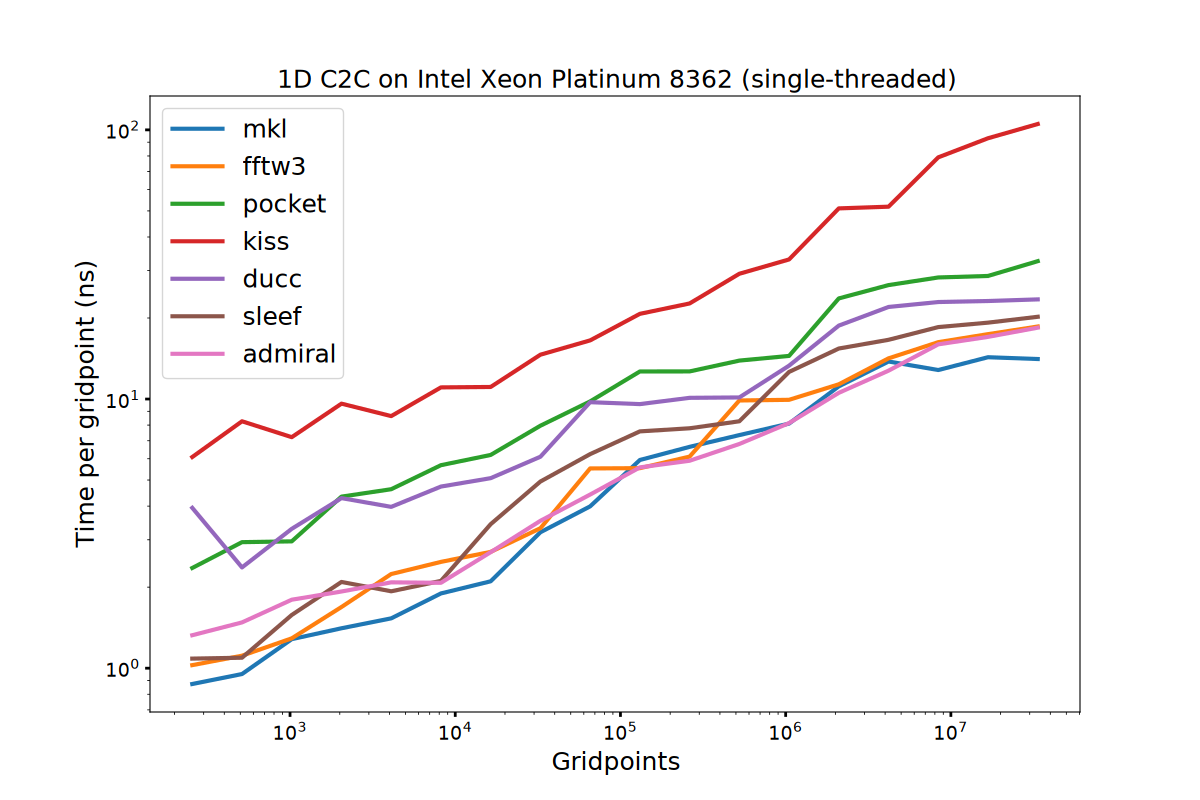
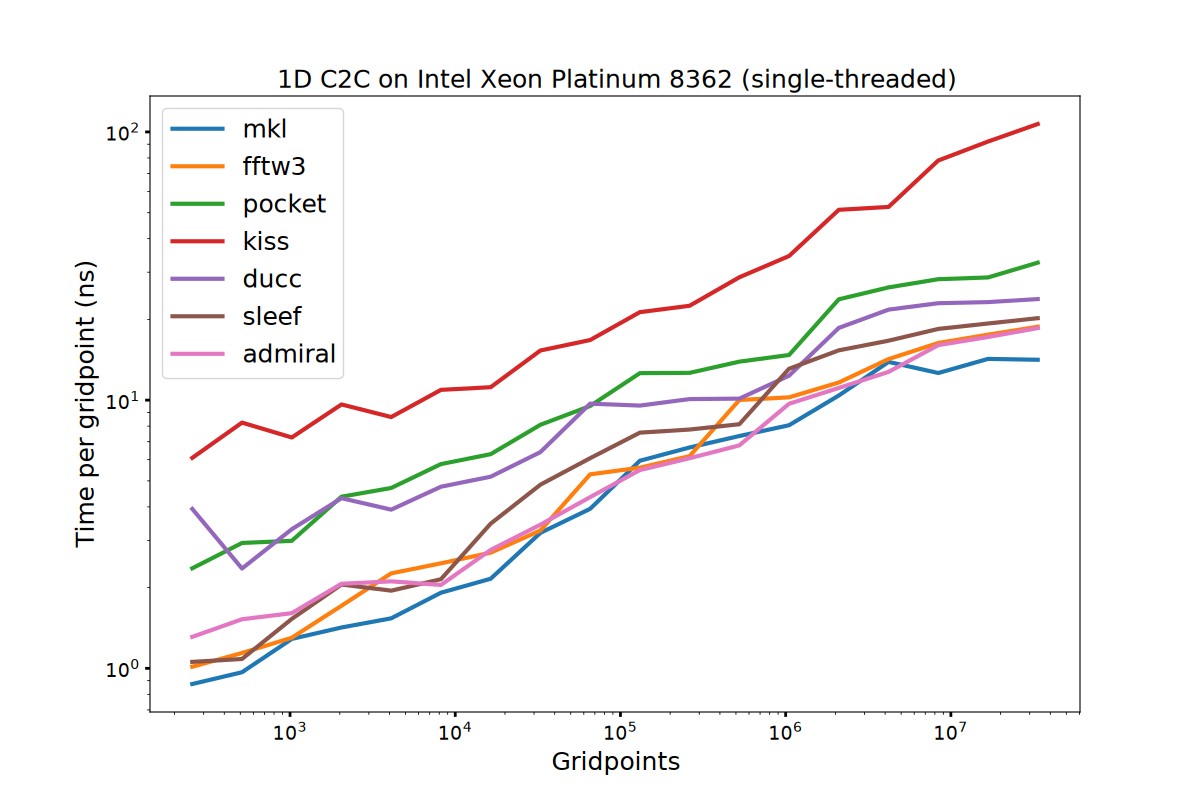
docs: bump admiral to e49684b and regenerate plots from the 2026-09-01 suite

diff --git a/README.md b/README.md
@@ -3,7 +3,7 @@ FFTW3 run in FFTW_MEASURE mode. FFTW_PATIENT is death, and I wanted to give it a
 
 | MKL      | FFTW   | KISS             | Pocket   | DUCC              | Sleef         | Admiral |
 |----------|--------|------------------|----------|-------------------|---------------|---------|
-| 2026.0.0 | 3.3.11 | v131-101-ge5e3fac| 81d171a6 | 0.41.1-72-g9919ab6| 3.9.0-41-g7623d6c | 1bf17df |
+| 2026.0.0 | 3.3.11 | v131-101-ge5e3fac| 81d171a6 | 0.41.1-72-g9919ab6| 3.9.0-41-g7623d6c | e49684b |
 
 FFTW3, MKL and gcc come from the cluster's Lmod modules (`gcc/14.3.0 fftw/3.3.11 intel-oneapi-mkl/2026.0.0`); the module's FFTW3 carries the
 OpenMP threading library, which `fftw3_omp_bench` links. Machines: Intel Xeon Platinum 8362 (icelake), AMD EPYC 7742 (rome), AMD EPYC 9474F (genoa).
@@ -40,16 +40,21 @@ taskset -c 0-$((OMP_NUM_THREADS-1)) blah_bench args
 mkl, fftw3, ducc and sleef take the thread count from `OMP_NUM_THREADS`, so they are
 handed the node's full count at every size and decide internally what to do with it.
 Admiral takes its count as a plan option and is passed `nthreads=0`, its auto setting:
-serial below 32768 elements, then one thread per allowed physical core, which under the
-`taskset` above is the same full count. So the ceiling matches; what differs is that
-admiral drops to serial on its own for the small end, where a thread pool costs more
-than it saves.
+serial below 32768 elements; past that a fitted wake-cost law picks the pool size —
+up to every allowed physical core at the ceiling, equal to the `taskset` count. The
+difference from the libraries is that admiral prices the wake cost against the work
+per pass and drops to fewer threads, or to serial, on its own where a thread pool
+costs more than it saves.
 
 Known issue: **FFTW3 multi-threaded does not terminate on genoa.** `FFTW_MEASURE`
 planning at 96 threads burns 99% of a single core for hours (one transform size
 clocked past two hours of pure planning) while the same block completes in 13-24 min
 on icelake and rome. `fftw3_omp` is therefore omitted from the genoa runs; FFTW3
 OpenMP results are unaffected on the other two machines.
+
+Session caveat (2026-09-01 measurements): the genoa round ran on a uniformly slower
+node (every library moved; admiral least of all), which flatters admiral's MT ratios
+on genoa this round. The rankings are the stable content.
 
 Note that KISS has openmp enabled, but I didn't do a separate build for it. Given its
 performance, I am happy to ignore it. Pocket is single-threaded only. So the
